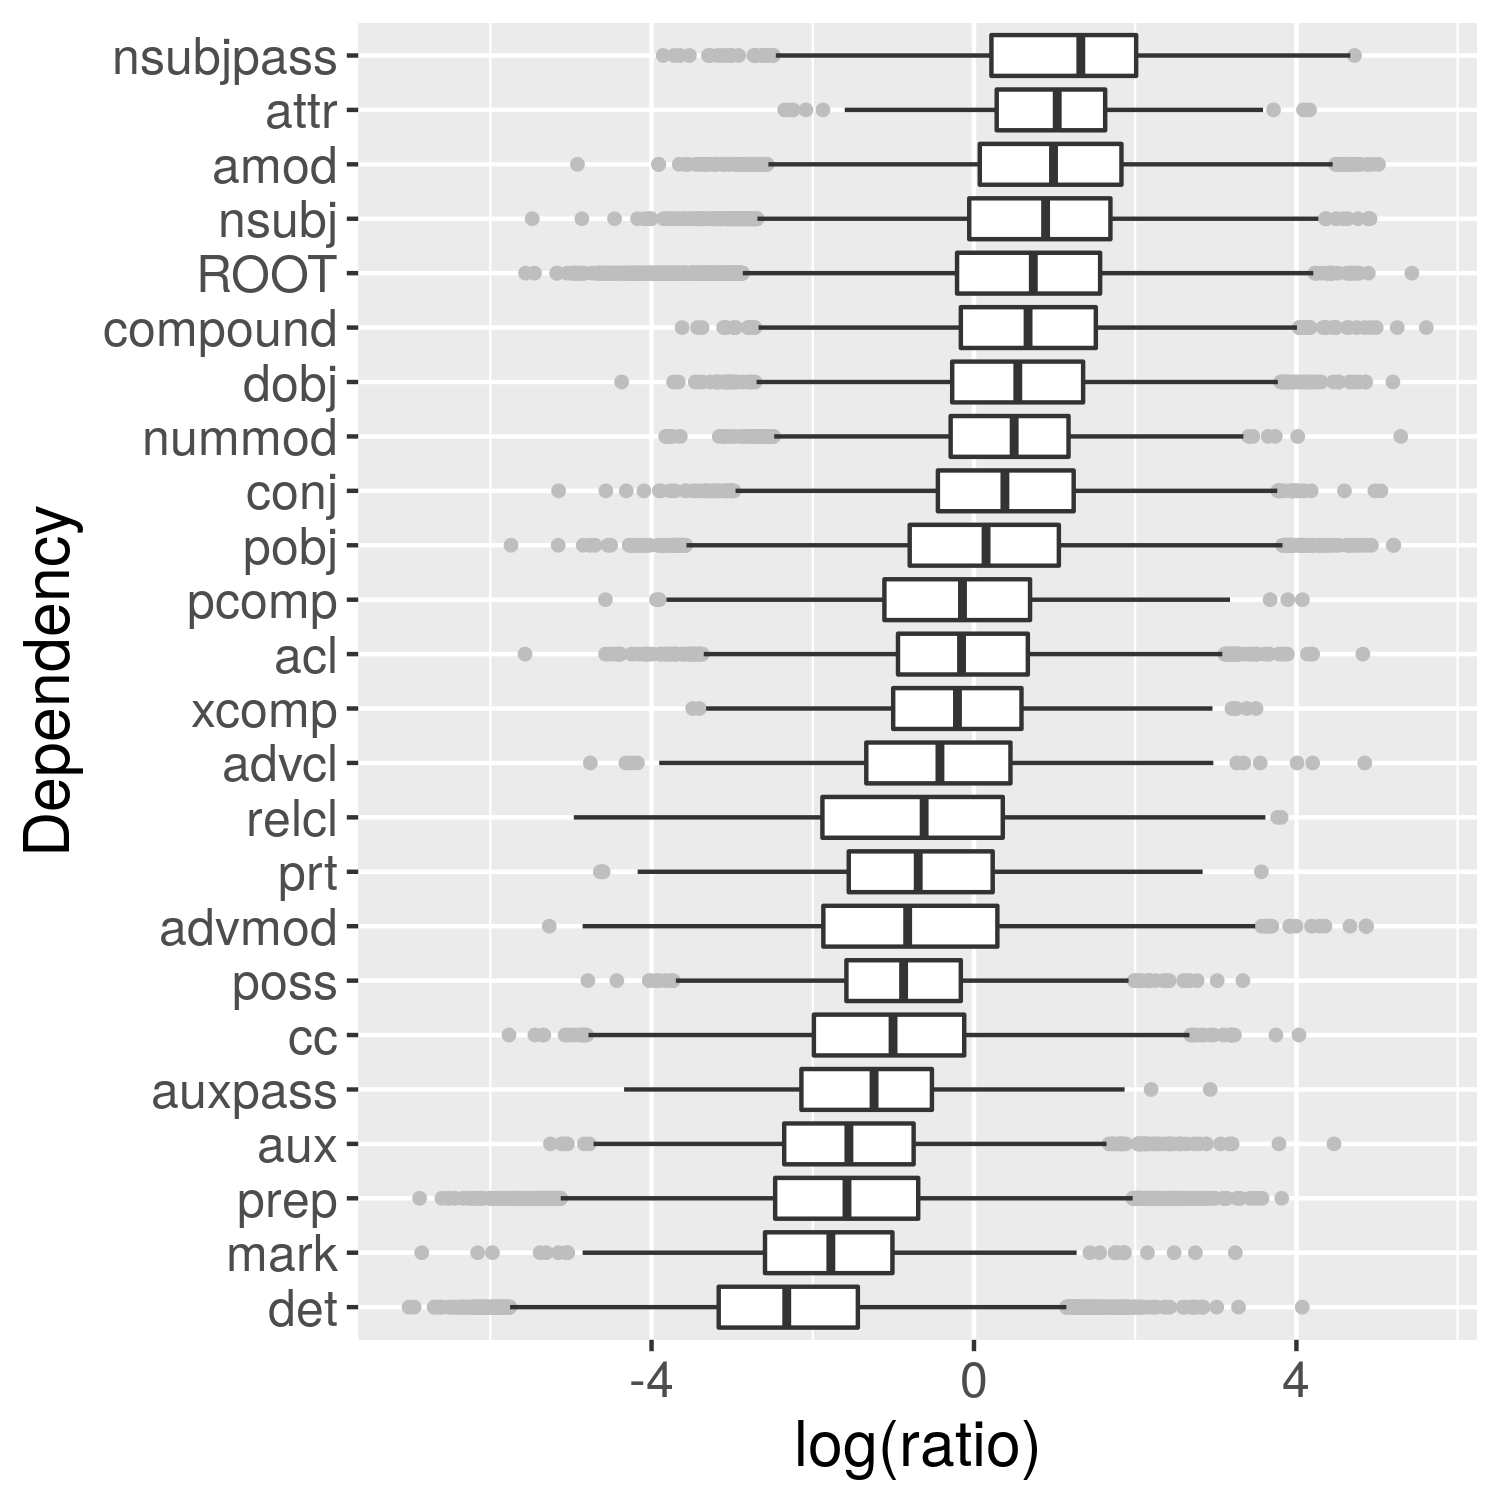
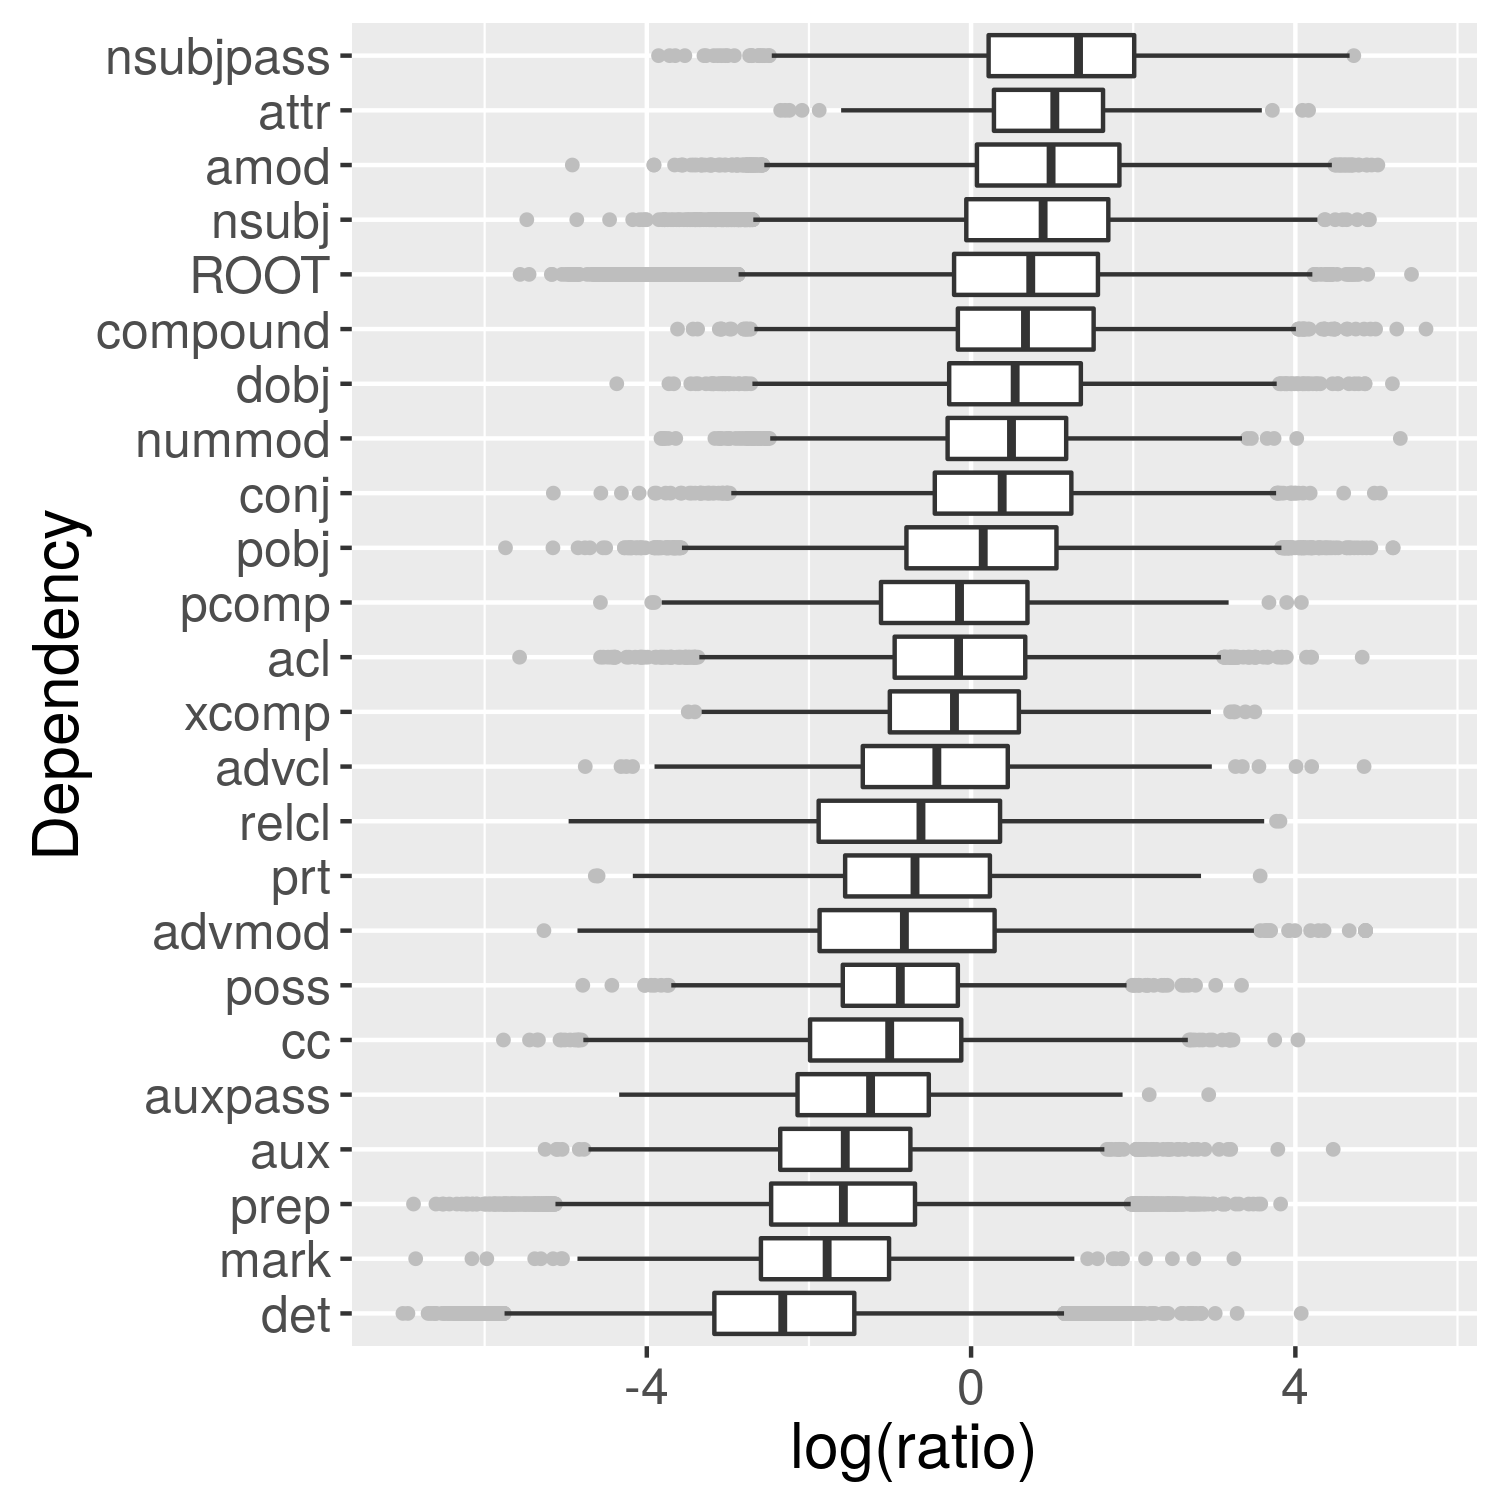
Include LM omission scores.

diff --git a/doc/categories.tex b/doc/categories.tex
@@ -156,8 +156,8 @@ from the models as the representations of the full and partial sentences.
 %\hspace*{-0.3in}
 \setlength{\tabcolsep}{0pt}
   \begin{tabular}{cc}
-  \includegraphics[scale=0.55]{imaginet-omission-pos-boxplot.png} &
-  \includegraphics[scale=0.55]{imaginet-omission-dep-boxplot.png} \\
+  \includegraphics[scale=0.6]{imaginet-omission-pos-boxplot.png} &
+  \includegraphics[scale=0.6]{imaginet-omission-dep-boxplot.png} \\
   \end{tabular}
   
 \caption{Distribution of omission scores for POS (left) and dependency labels
@@ -174,6 +174,19 @@ from the models as the representations of the full and partial sentences.
   \includegraphics[scale=0.55]{imaginet-omission-ratio-dep-boxplot.png} \\  
   \end{tabular}
   \caption{Distributions of log ratios of omission scores of {\sc Textual} to {\sc Visual} per
+    POS (left) and deprel labels (right). Only labels which occur at least 500 times are included.}
+\label{fig:omission-imaginet-ratio}
+\end{figure*}
+
+\begin{figure*}[t]
+  \centering
+  \hspace*{-0.2in}
+  \setlength{\tabcolsep}{0pt}
+  \begin{tabular}{cc}
+  \includegraphics[scale=0.55]{imaginet-omission-quotient-pos-boxplot.png} &
+  \includegraphics[scale=0.55]{imaginet-omission-quotient-dep-boxplot.png} \\  
+  \end{tabular}
+  \caption{Distributions of log ratios of omission scores of {\sc LM} to {\sc Textual} per
     POS (left) and deprel labels (right). Only labels which occur at least 500 times are included.}
 \label{fig:omission-imaginet-ratio}
 \end{figure*}
